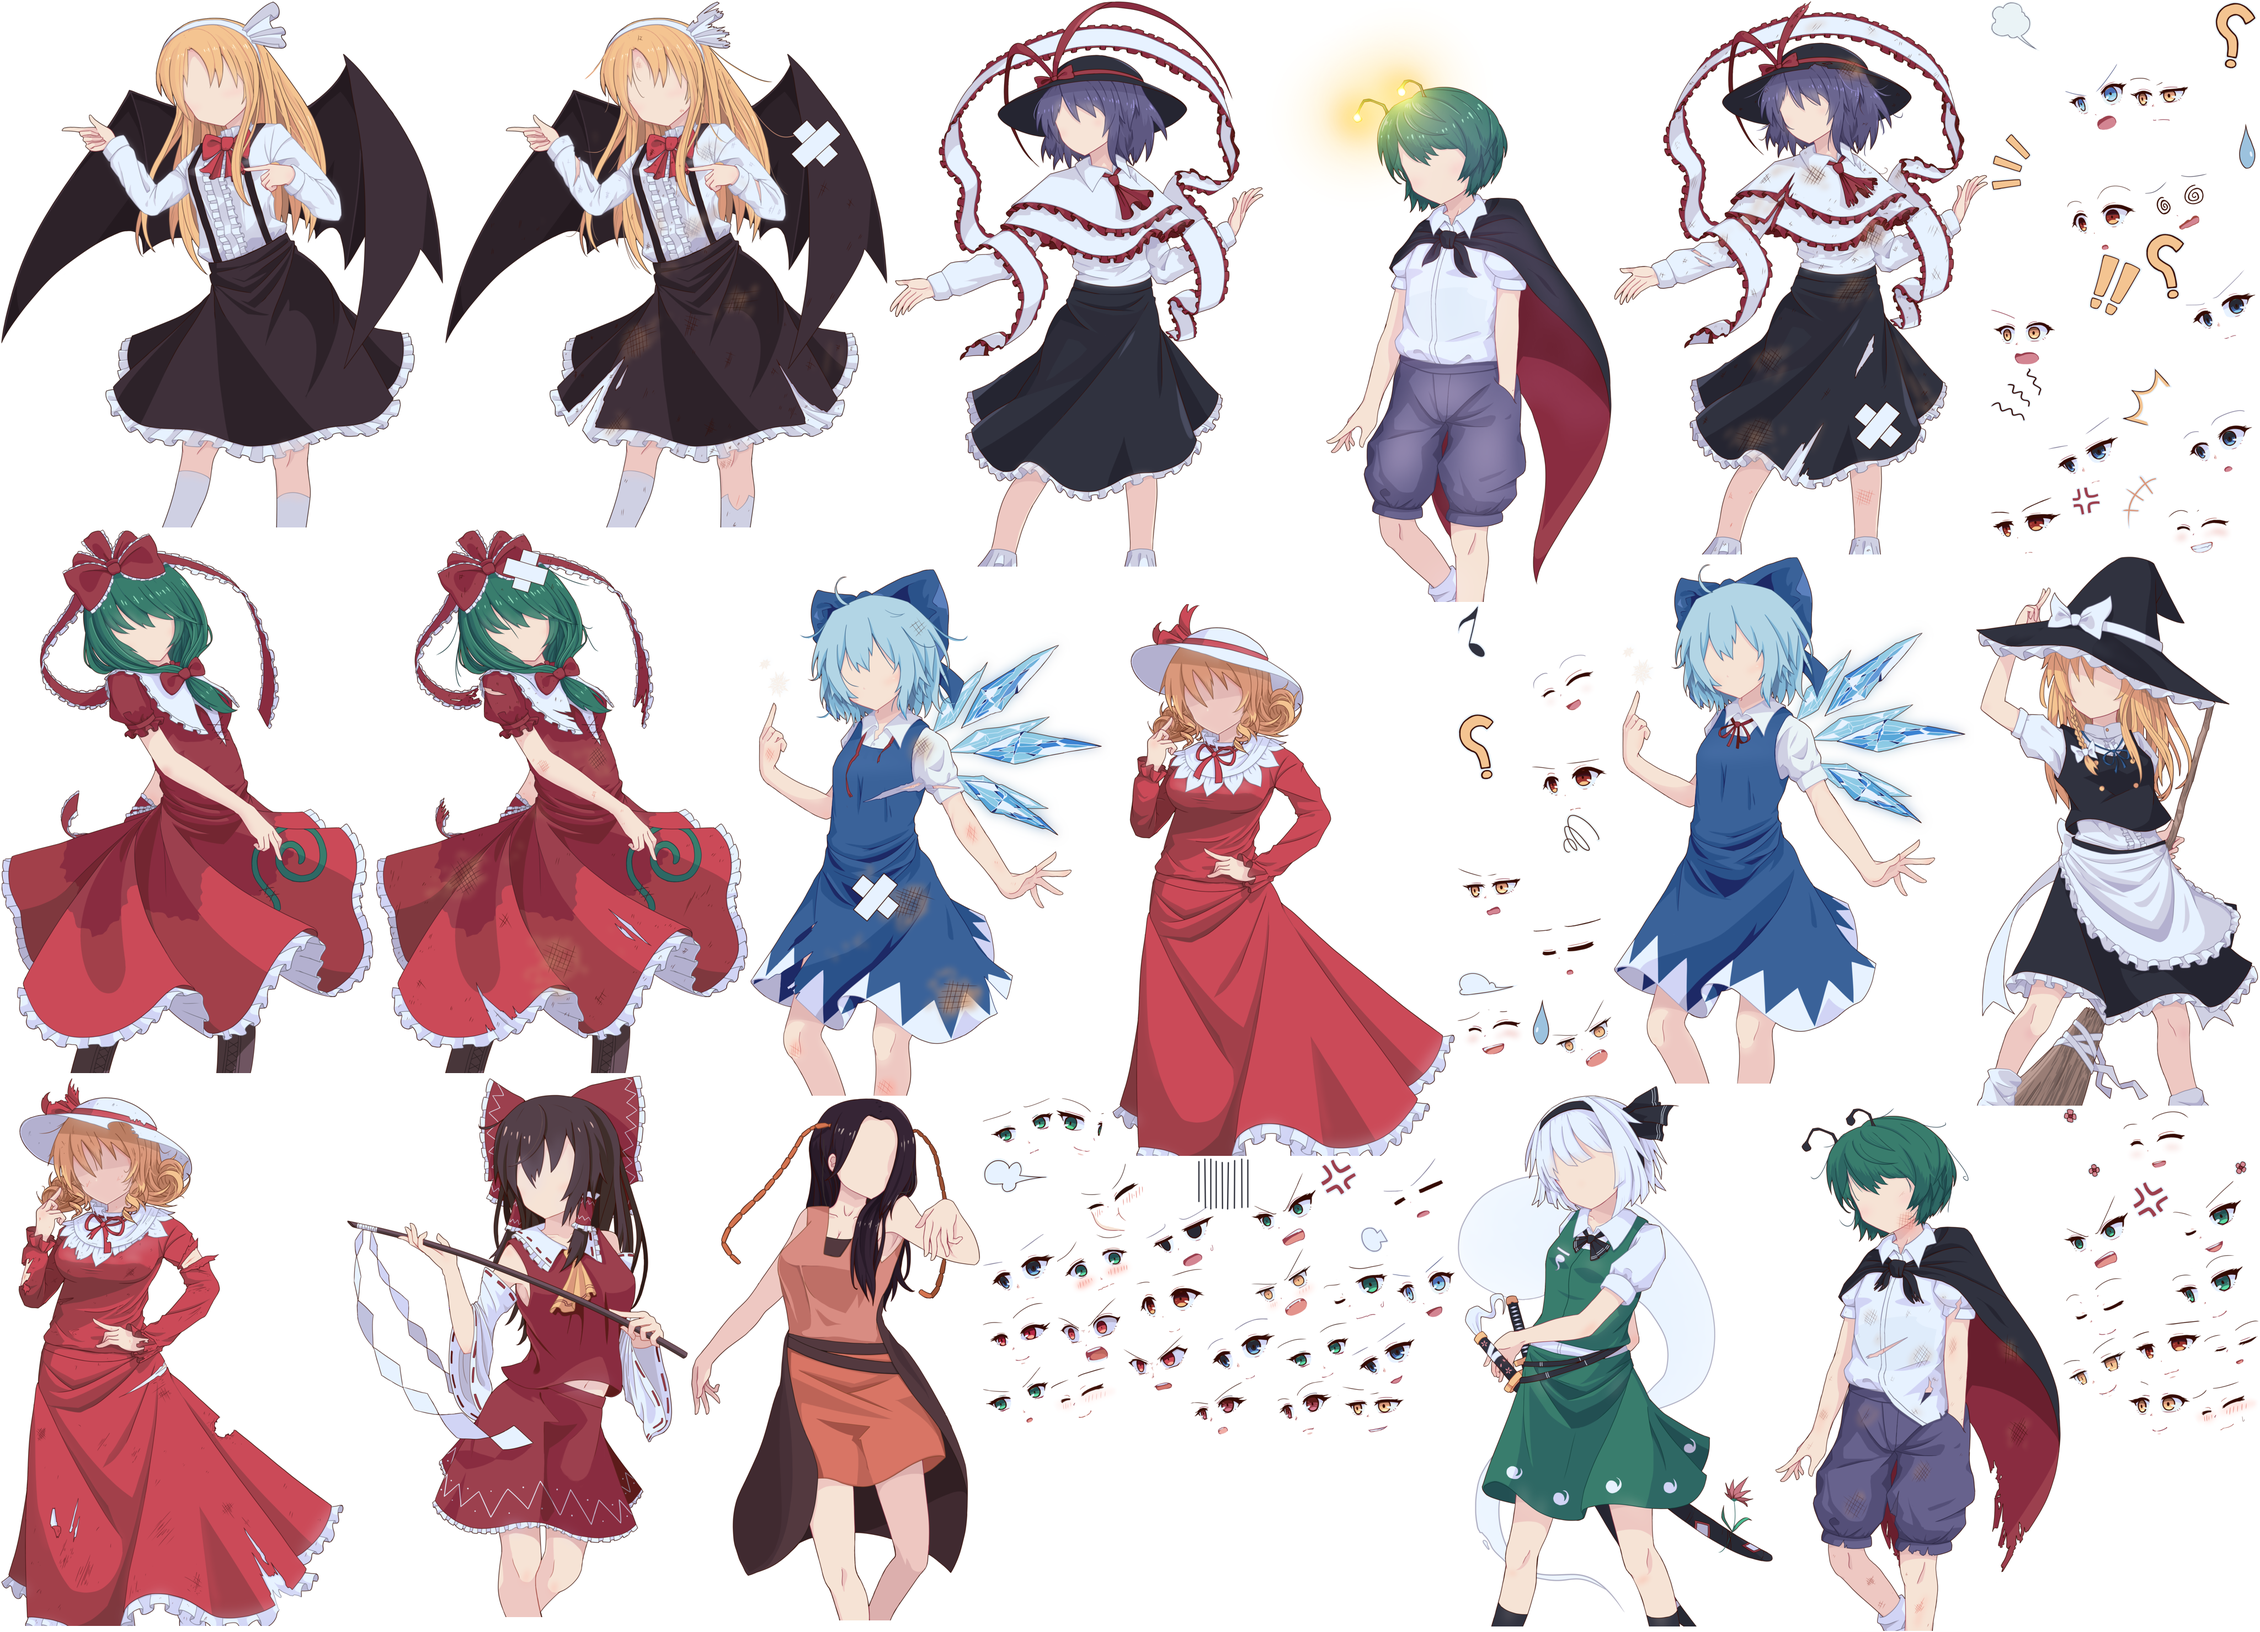
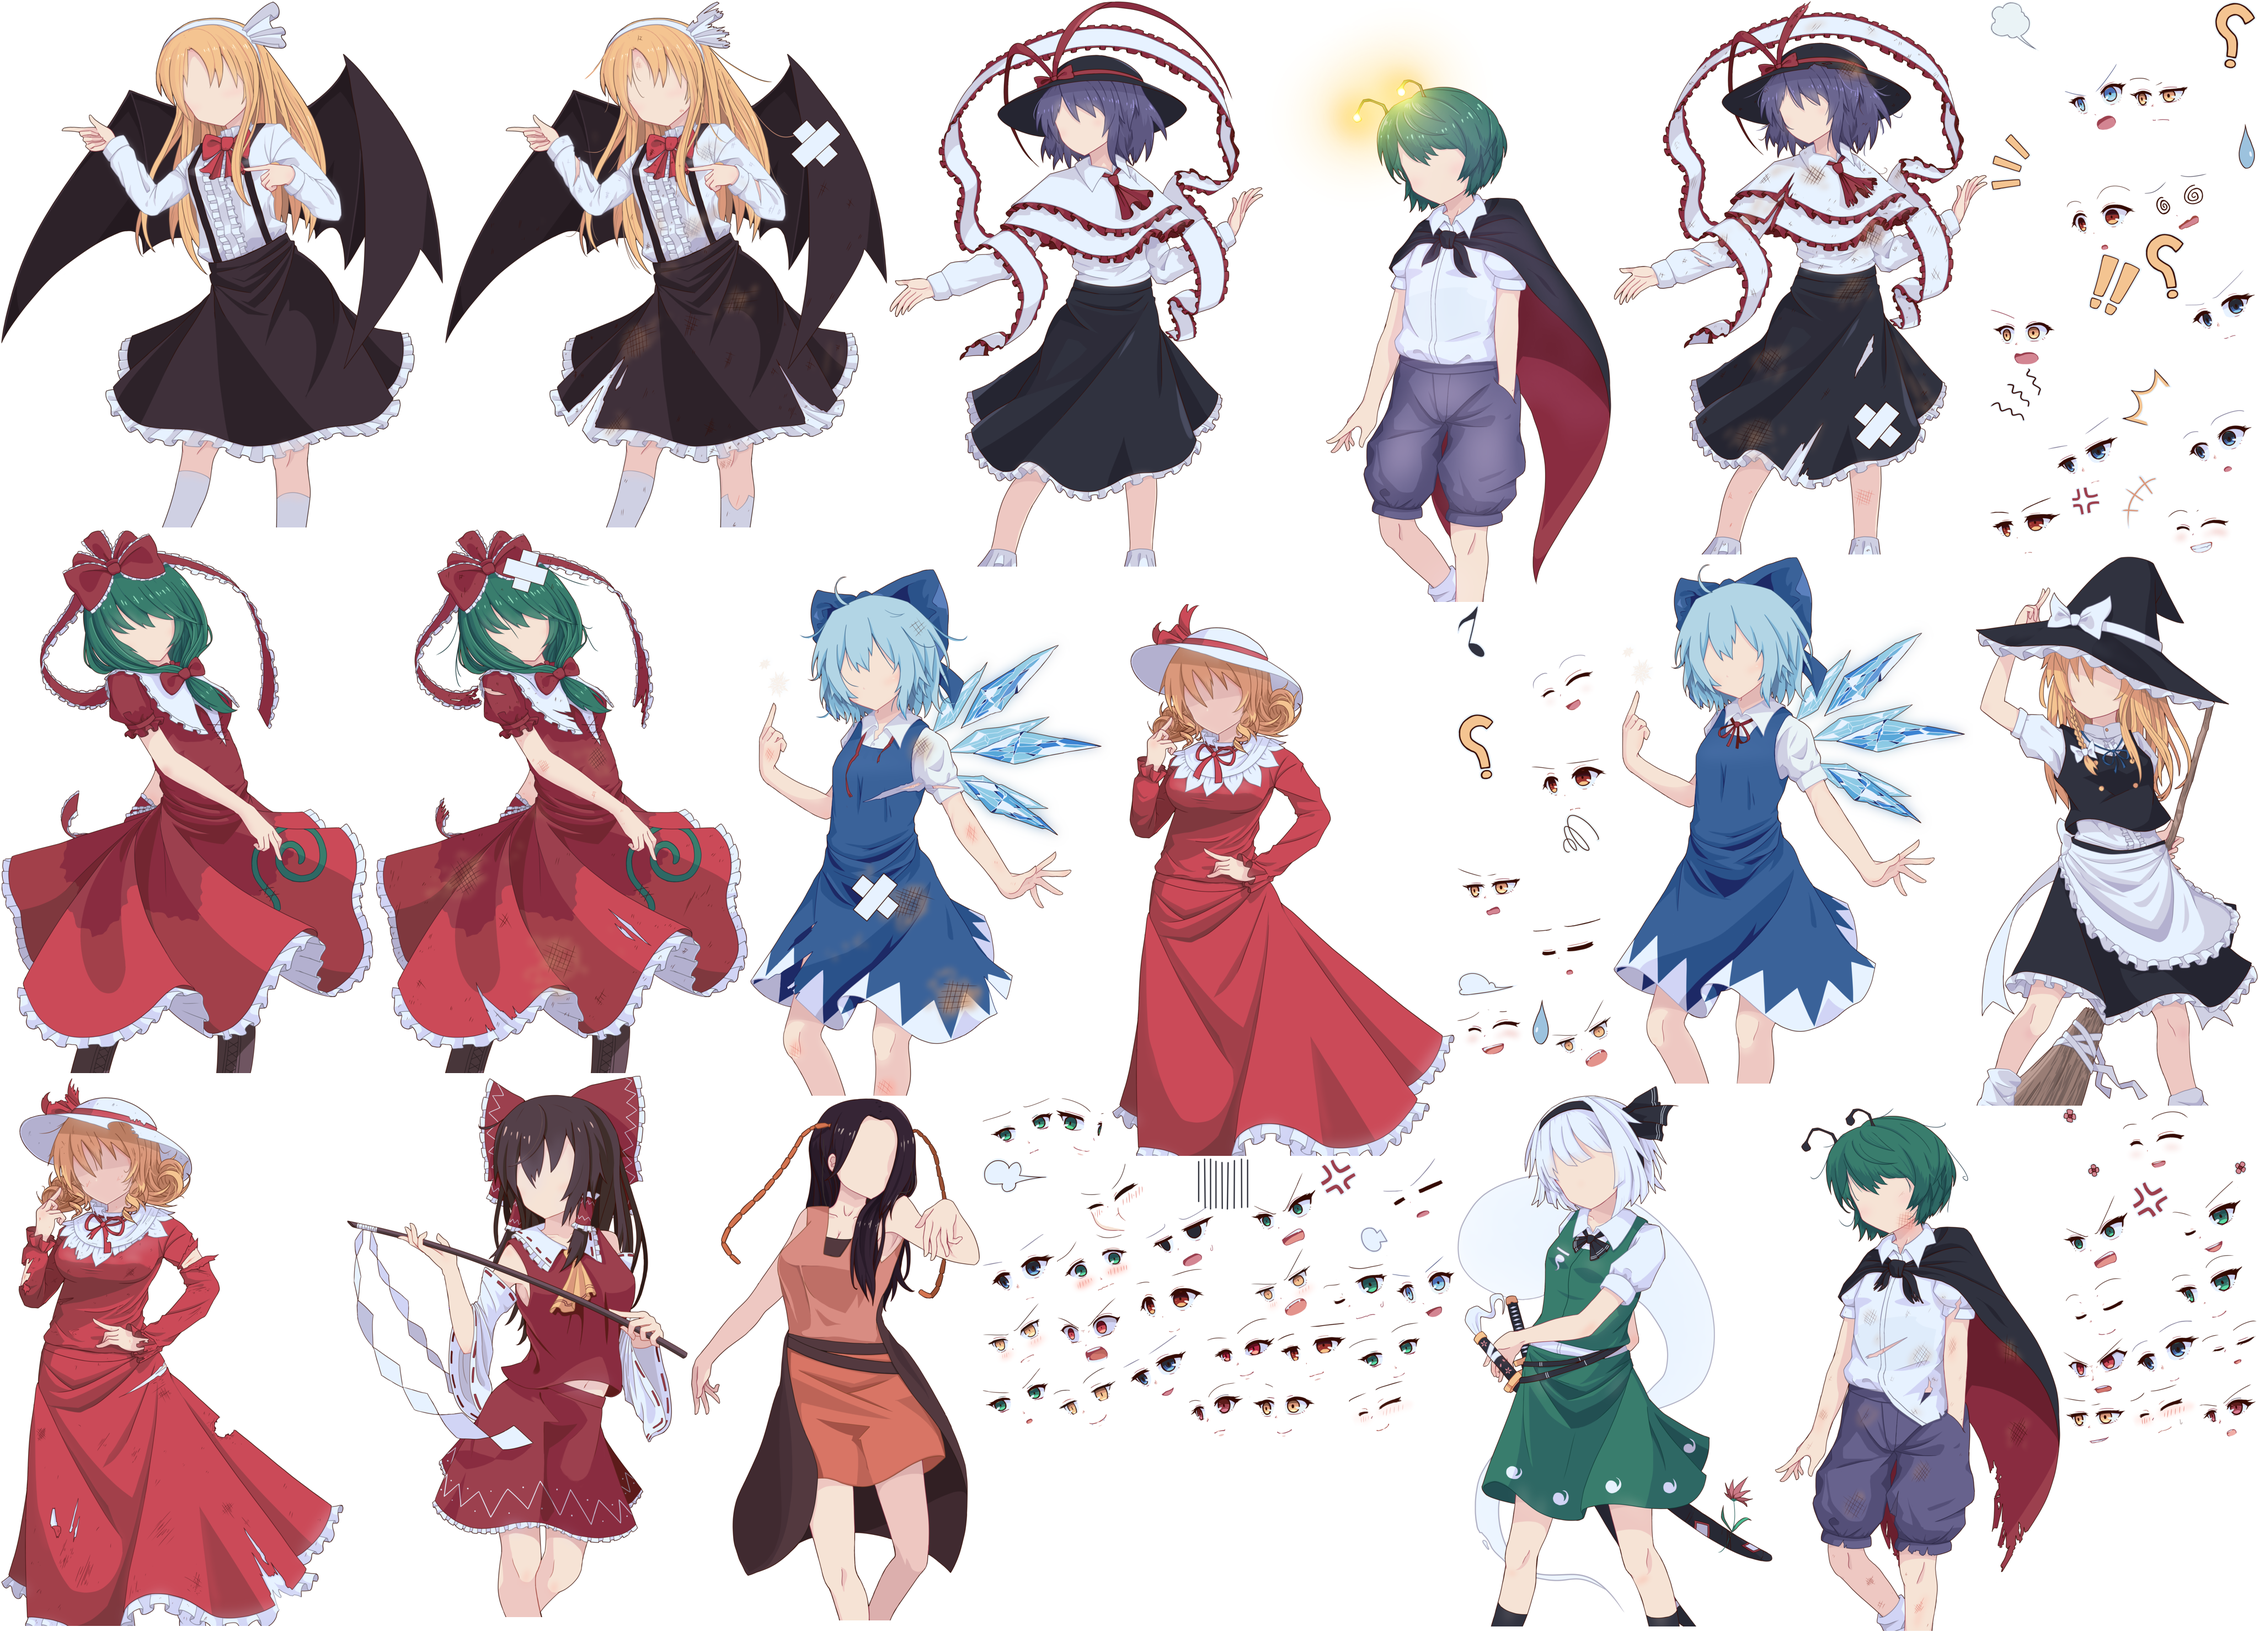
Add Kurumi dissatisfied face

diff --git a/src/dialog/youmu.c b/src/dialog/youmu.c
@@ -109,15 +109,17 @@ DIALOG_SCRIPT(youmu_stage4_pre_boss) {
 	RIGHT("I'm Kuru—");
 	RIGHT_FACE(tsun_blush);
 	RIGHT("Hey, my name isn’t important for a nosy person like you to know!");
+	RIGHT_FACE(dissatisfied);
 	LEFT_FACE(unamused);
 	LEFT("I only wanted to know so I could refer to you politely. I don’t want to call you a “random somebody” in your own house.");
 	RIGHT_FACE(normal);
 	LEFT_FACE(relaxed);
 	LEFT("Your house is very nice, by the way. Although I still think Hakugyokurō is bigger. Have you ever been there? Lady Yuyuko loves guests.");
-	RIGHT_FACE(tsun);
+	RIGHT_FACE(tsun_blush);
 	RIGHT("This isn’t my house, and you’re not allowed to snoop any more than you have! If you keep ignoring me, I’ll have to suck you dry right here where we stand!");
 	LEFT_FACE(sigh);
 	LEFT("It’s not your house, and yet you’re telling me to leave? You sound just as presumptuous as the other vampire I’ve met.");
+	RIGHT_FACE(tsun);
 	LEFT_FACE(normal);
 	RIGHT("I can bet you that I’m much more frightening.");
 }
@@ -129,6 +131,7 @@ DIALOG_SCRIPT(youmu_stage4_post_boss) {
 	LEFT("Maybe you should work on your manners and buy yourself a nice mansion to lord over instead of taking someone else’s.");
 	RIGHT_FACE(tsun_blush);
 	RIGHT("I don’t care about being a stuffy noble! Just leave my friend alone to do her work!");
+	RIGHT_FACE(dissatisfied);
 	LEFT_FACE(happy);
 	LEFT("Normally I wouldn’t impose on someone who is busy, but I’ll have to make an exception for your mistress this time.");
 	LEFT_FACE(relaxed);

diff --git a/src/dialog/marisa.c b/src/dialog/marisa.c
@@ -102,6 +102,7 @@ DIALOG_SCRIPT(marisa_stage4_pre_boss) {
 	LEFT("Now here’s a face I haven’t seen in a long time. What’s this fancy house all about anyways? Decided to guard Yūka again, or is it somebody new?");
 	RIGHT_FACE(tsun_blush);
 	RIGHT("It’s none of your business, that’s what it is. My friend is busy with some important work and she can’t be disturbed by nosy humans poking into where they don’t belong.");
+	RIGHT_FACE(dissatisfied);
 	LEFT_FACE(happy);
 	LEFT("Now that’s no way to treat an old acquaintance! I know ya from before, so how about just givin’ me a backstage pass, eh?");
 	RIGHT_FACE(tsun);
@@ -115,6 +116,7 @@ DIALOG_SCRIPT(marisa_stage4_post_boss) {
 	LEFT_FACE(smug);
 	LEFT("Right, got any tickets left then? I’ll probably be a little early, but I wanna meet the star of this show.");
 	LEFT("She seems like somebody I’d know.");
+	RIGHT_FACE(dissatisfied);
 	RIGHT("Attendance might as well be free since I’m too drained to do anything about it.");
 	LEFT_FACE(happy);
 	LEFT("Now that’s what I like t’ hear!");

diff --git a/src/dialog/reimu.c b/src/dialog/reimu.c
@@ -106,6 +106,7 @@ DIALOG_SCRIPT(reimu_stage4_pre_boss) {
 	LEFT("Oh, it’s somebody new.");
 	RIGHT_FACE(tsun_blush);
 	RIGHT("No, definitely not! I could never forget you from all those years ago! That was the most intense battle of my life!");
+	RIGHT_FACE(dissatisfied);
 	LEFT_FACE(puzzled);
 	LEFT("Hmm, nope, I don’t remember fighting you. Maybe if you told me your name, I could recall faster.");
 	RIGHT_FACE(tsun);
@@ -122,7 +123,7 @@ DIALOG_SCRIPT(reimu_stage4_post_boss) {
 	RIGHT("I didn’t think it was possible, but you’re so much stronger than before!");
 	RIGHT_FACE(tsun_blush);
 	RIGHT("Can’t you remember? I’m Kurumi!");
-	RIGHT_FACE(defeated);
+	RIGHT_FACE(dissatisfied);
 	LEFT_FACE(sigh);
 	LEFT("You don’t seem like the sort that is worth remembering after several years.");
 	RIGHT_FACE(tsun_blush);
